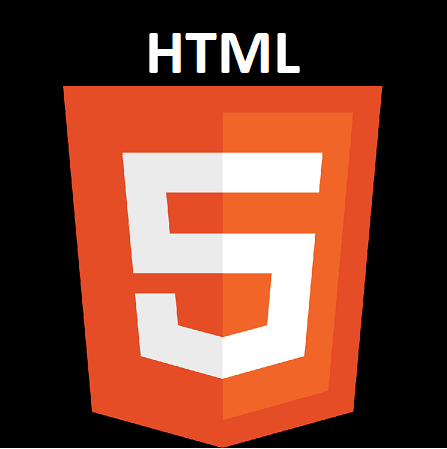
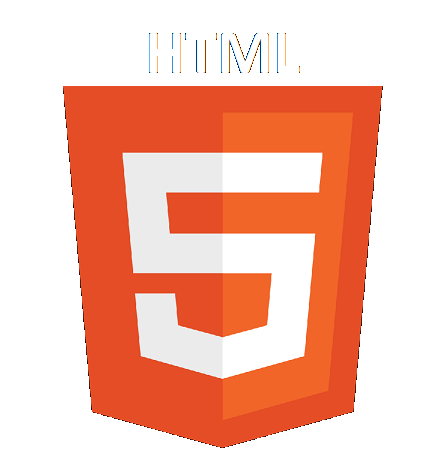
Dropdown css

diff --git a/css/dropdown.html b/css/dropdown.html
@@ -1,0 +1,26 @@
+<!DOCTYPE html>
+<html>
+
+<head>
+    <title>CSS Dropdowns</title>
+    <link rel="stylesheet" href="./stylesheets/dropdown.css">
+</head>
+
+<body>
+    <div id="button">
+        <img src="./img/oop.jfif" alt="OOP">
+        <div id=dropdown>
+            <a href="https://www.guru99.com/java-oops-class-objects.html#1">Class</a>
+            <a href="https://www.guru99.com/java-oops-class-objects.html#2">Object</a>
+            <a href="https://www.guru99.com/java-data-abstraction.html">Abstraction</a>
+            <a href="https://www.guru99.com/java-oops-encapsulation.html">Encapsulation</a>
+            <a href="https://www.guru99.com/cpp-polymorphism.html">Polymorphism</a>
+            <a href="https://www.guru99.com/java-class-inheritance.html">Inheritance</a>
+            <a href="https://www.guru99.com/association-aggregation-composition-difference.html#1">Association</a>
+            <a href="https://www.guru99.com/association-aggregation-composition-difference.html#2">Composition</a>
+            <a href="https://www.guru99.com/association-aggregation-composition-difference.html#3">Aggregation</a>
+        </div>
+    </div>
+</body>
+
+</html>

diff --git a/index.html b/index.html
@@ -1,14 +1,23 @@
 <!DOCTYPE html>
 <html>
+
 <head>
     <title>Index</title>
+    <style>
+        img {
+            padding: 80px 80px;
+        }
+    </style>
 </head>
+
 <body>
     <span id="html">
         <a href="html/index-html.html"><img src="css/img/HTML-img.png" alt="HTML"></a>
     </span>
+
     <span id="css">
         <a href="css/index-css.html"><img src="css/img/img_css.jpg" alt="CSS"></a>
     </span>
 </body>
+
 </html>

diff --git a/css/index-css.html b/css/index-css.html
@@ -25,6 +25,7 @@
                 <li><a id="css-14" href="./css-tables.html">Table</a></li>
                 <li><a id="css-15" href="./css-align.html">Align</a></li>
                 <li><a id="css-16" href="./opacity.html">Opacity</a></li>
+                <li><a id="css-17" href="./dropdown.html">Dropdown</a></li>
             </ul>
 
             <nav><a id="main" href="../index.html">&lt;&lt;Back</a></nav>

diff --git a/css/stylesheets/dropdown.css b/css/stylesheets/dropdown.css
@@ -1,0 +1,22 @@
+#button{
+    display: inline-block;
+    margin: 25px;
+    width: auto;
+    padding: 0px 250px;
+}
+#dropdown {
+    display: none;
+}
+#dropdown a{
+    display: block;
+    color: #050295;
+    text-decoration: none;
+    font-size: 30px;
+    text-align:center;
+}
+#button:hover #dropdown{
+    display: block;
+}
+#dropdown a:hover{
+    background-color: #cecece;
+}

diff --git a/html/index-html.css b/html/index-html.css
@@ -46,6 +46,6 @@ nav {
     padding:0;
     background-color: #000000;
 }
-a:hover {
+a[target="_blank"]:hover {
     background-color: #008000;
 }
